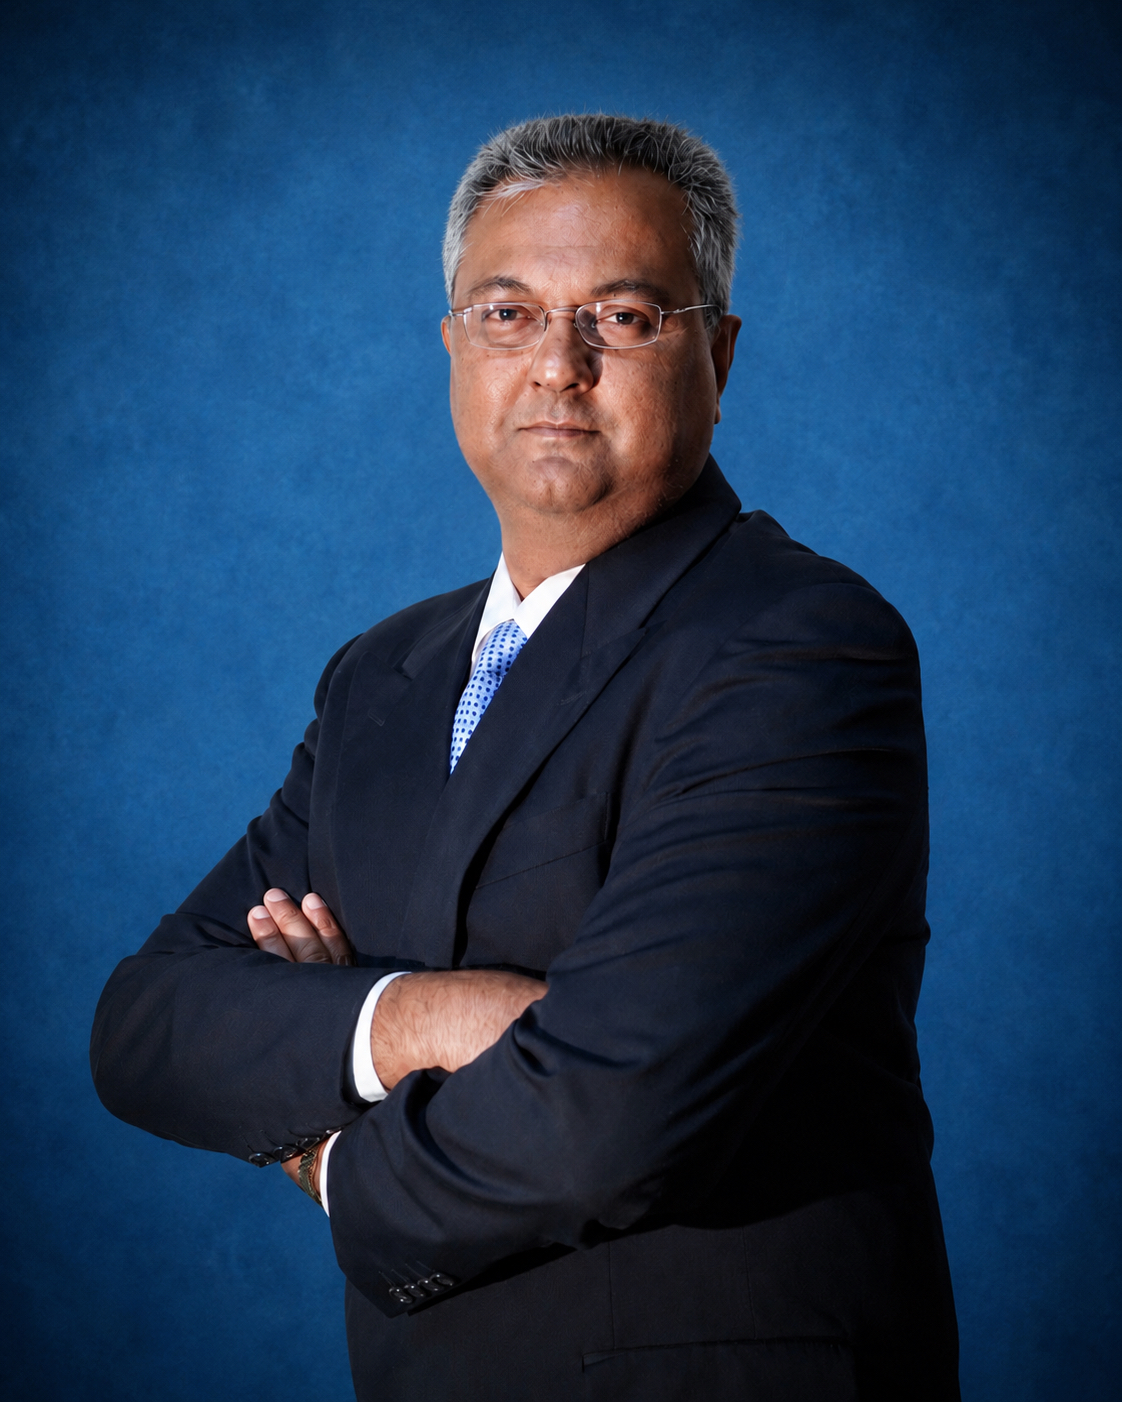
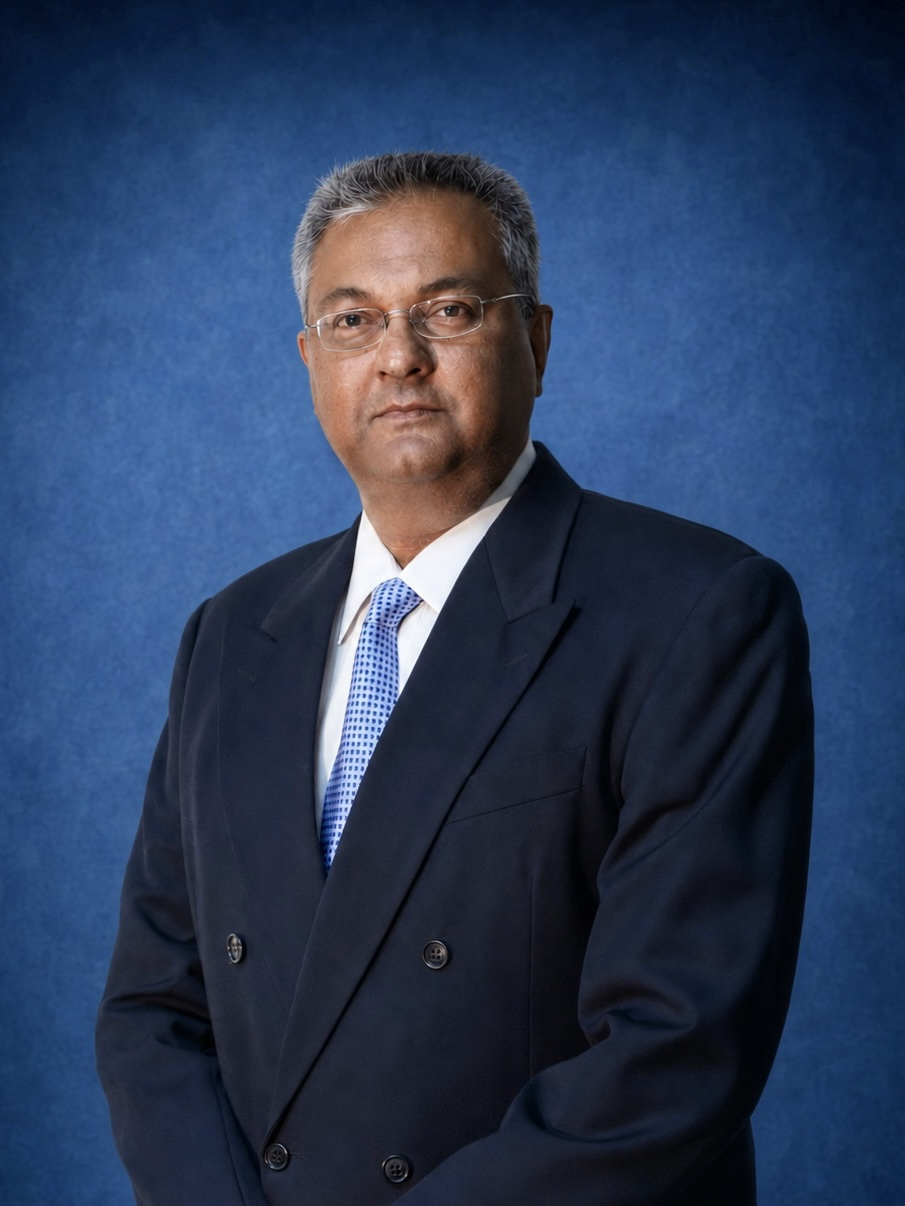
change image size and other fixes

diff --git a/people/rajpal-singh/index.html b/people/rajpal-singh/index.html
@@ -236,7 +236,7 @@
               <span class="profile-sidebar__initials" aria-hidden="true">RS</span>
             </div>
             <h1 class="profile-sidebar__name">Dato' Rajpal Singh A/L Mukhtiar Singh</h1>
-            <p class="profile-sidebar__title">Partner</p>
+            <p class="profile-sidebar__title">Senior Partner</p>
             <p class="profile-sidebar__practice">Criminal Litigation</p>
             <ul class="profile-sidebar__meta">
               <li>

diff --git a/ms/people/vishnu-kumar/index.html b/ms/people/vishnu-kumar/index.html
@@ -199,7 +199,7 @@
               <span class="profile-sidebar__initials" aria-hidden="true">VK</span>
             </div>
             <h1 class="profile-sidebar__name">Vishnu Kumar A/L S. Athi Kumar</h1>
-            <p class="profile-sidebar__title">Rakan Kongsi</p>
+            <p class="profile-sidebar__title">Rakan Kongsi Kanan</p>
             <p class="profile-sidebar__practice">Litigasi Sivil</p>
             <ul class="profile-sidebar__meta">
               <li>

diff --git a/people/vishnu-kumar/index.html b/people/vishnu-kumar/index.html
@@ -199,7 +199,7 @@
               <span class="profile-sidebar__initials" aria-hidden="true">VK</span>
             </div>
             <h1 class="profile-sidebar__name">Vishnu Kumar A/L S. Athi Kumar</h1>
-            <p class="profile-sidebar__title">Partner</p>
+            <p class="profile-sidebar__title">Senior Partner</p>
             <p class="profile-sidebar__practice">Civil Litigation</p>
             <ul class="profile-sidebar__meta">
               <li>

diff --git a/css/layout.css b/css/layout.css
@@ -187,13 +187,16 @@
 }
 
 @media (max-width: 640px) {
-  .people__partners,
-  .people__associates {
+  /* One shared 2-col grid so partners and associates are identical size */
+  .people__layout {
+    display: grid;
+    grid-template-columns: repeat(2, minmax(0, 1fr));
     gap: 1rem;
   }
 
+  .people__partners,
   .people__associates {
-    grid-template-columns: repeat(2, minmax(0, 1fr));
+    display: contents;
   }
 }
 

diff --git a/ms/people/tiew-poh-nee/index.html b/ms/people/tiew-poh-nee/index.html
@@ -198,7 +198,7 @@
               </li>
               <li>
                 <span class="profile-sidebar__meta-label">Bahasa</span>
-                Bahasa Malaysia, Bahasa Inggeris, Mandarin, dan Hokkien (fasih)
+                Bahasa Malaysia, Bahasa Inggeris, Mandarin, dan Hokkien
               </li>
               <li>
                 <span class="profile-sidebar__meta-label">Penulisan</span>

diff --git a/people/tiew-poh-nee/index.html b/people/tiew-poh-nee/index.html
@@ -198,7 +198,7 @@
               </li>
               <li>
                 <span class="profile-sidebar__meta-label">Languages</span>
-                Malay, English, Mandarin, and Hokkien (fluent)
+                Malay, English, Mandarin, and Hokkien
               </li>
               <li>
                 <span class="profile-sidebar__meta-label">Writing</span>

diff --git a/ms/people/siti-anis/index.html b/ms/people/siti-anis/index.html
@@ -200,7 +200,7 @@
               </li>
               <li>
                 <span class="profile-sidebar__meta-label">Bahasa</span>
-                Bahasa Malaysia dan Bahasa Inggeris (fasih)
+                Bahasa Malaysia dan Bahasa Inggeris
               </li>
               <li>
                 <span class="profile-sidebar__meta-label">Pejabat</span>

diff --git a/people/siti-anis/index.html b/people/siti-anis/index.html
@@ -200,7 +200,7 @@
               </li>
               <li>
                 <span class="profile-sidebar__meta-label">Languages</span>
-                Malay and English (fluent)
+                Malay and English
               </li>
               <li>
                 <span class="profile-sidebar__meta-label">Office</span>

diff --git a/css/components.css b/css/components.css
@@ -797,6 +797,7 @@
 
 .attorney-card__media {
   position: relative;
+  width: 100%;
   aspect-ratio: 4 / 5;
   overflow: hidden;
   border-radius: var(--radius-sm);
